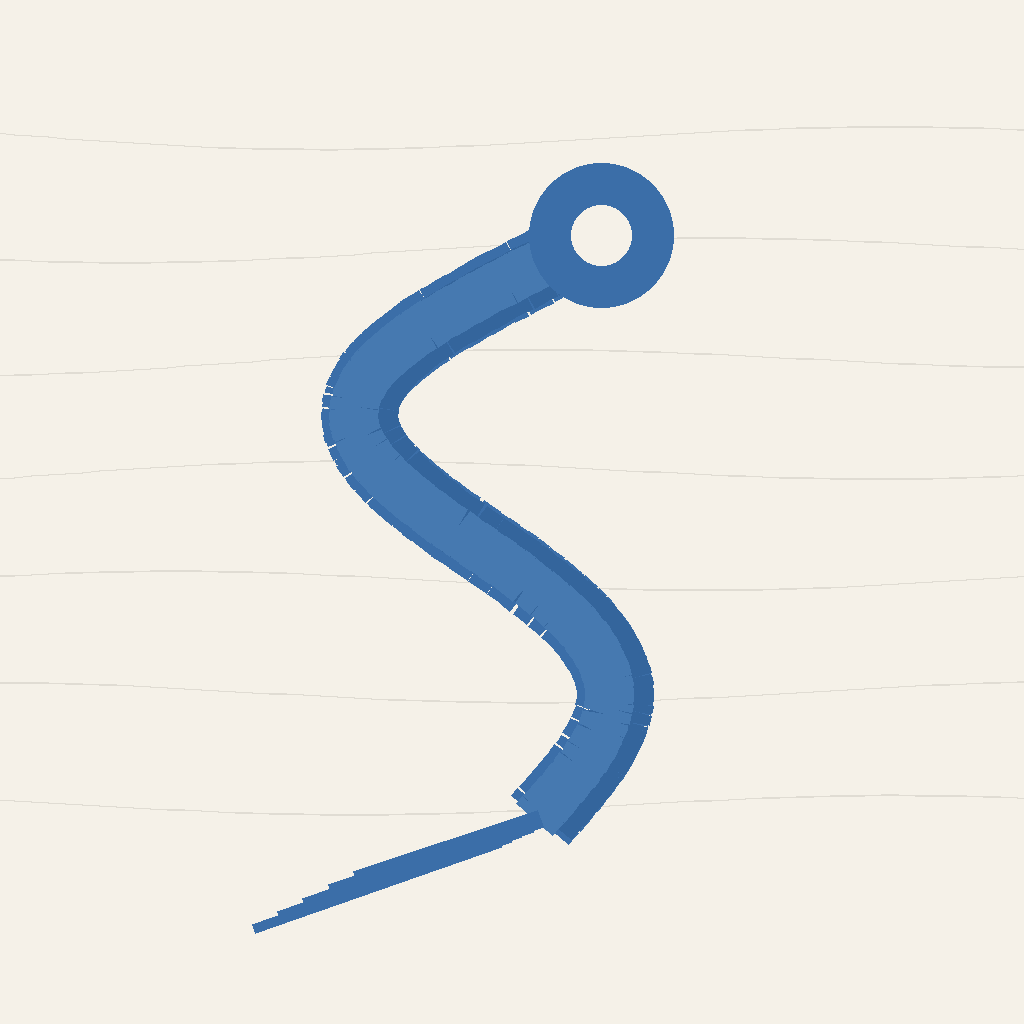
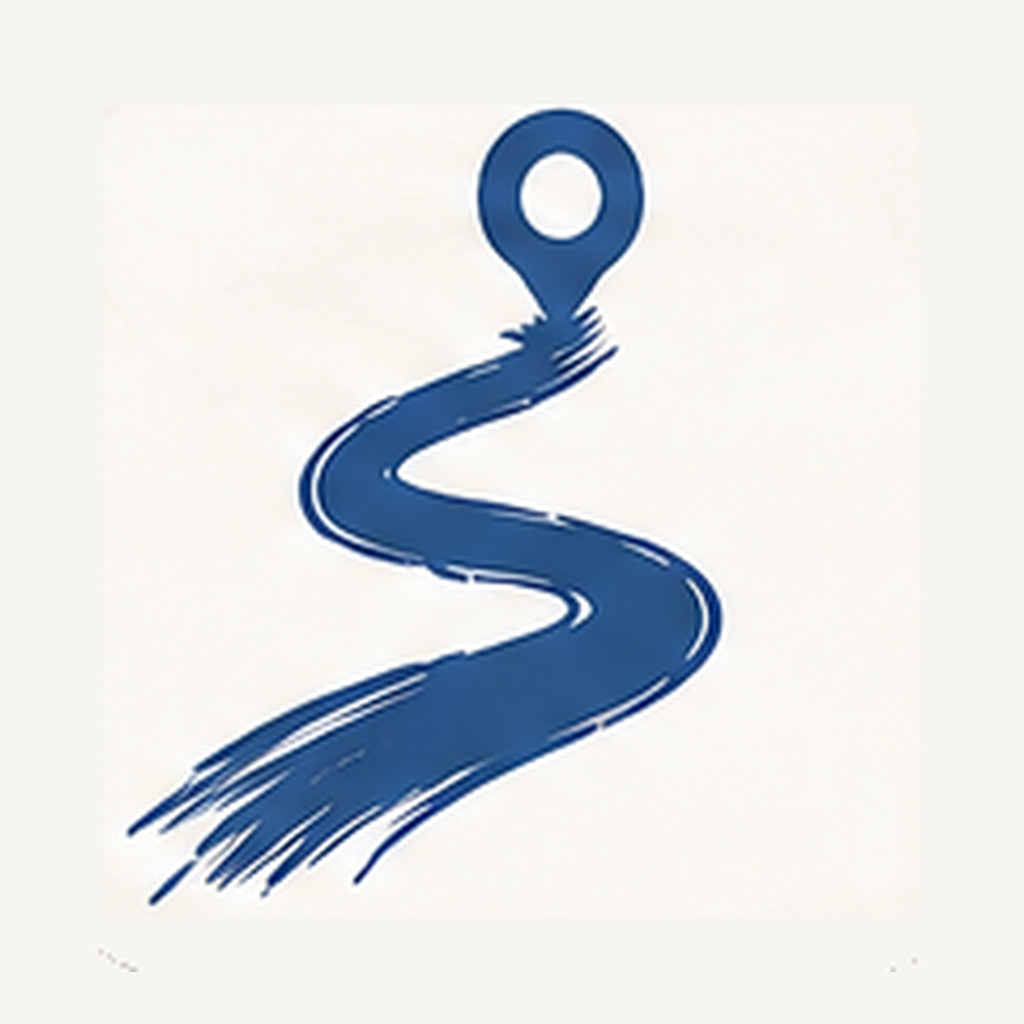
Add files via upload

Changed region(s): [[0.125, 0.0938, 0.7188, 0.9062], [0.125, 0.875, 0.1562, 0.9062]]

diff --git a/App.tsx b/App.tsx
@@ -1,6 +1,6 @@
 import { useMemo, useRef, useState } from 'react'
 import {
-  Check, Download, Eye, Gear, History, Layers, MapPin, Route as RouteIcon,
+  Check, Download, Eye, History, Layers, MapPin, Route as RouteIcon,
   Settings, SlidersHorizontal, X
 } from 'lucide-react'
 import { sampleTrack } from './sample'
@@ -84,7 +84,8 @@ export default function App(){
     return total
   },[])
   const distanceValue=units==='mi' ? distanceMeters/1609.344 : distanceMeters/1000
-  const distanceLabel=`${distanceValue.toFixed(2)} ${units}`
+  const distanceDecimals=distanceValue>=10000?0:distanceValue>=1000?1:2
+  const distanceLabel=`${new Intl.NumberFormat('en-US',{minimumFractionDigits:distanceDecimals,maximumFractionDigits:distanceDecimals}).format(distanceValue)} ${units}`
 
   const dist=(a:React.Touch,b:React.Touch)=>Math.hypot(a.clientX-b.clientX,a.clientY-b.clientY)
   const angle=(a:React.Touch,b:React.Touch)=>Math.atan2(b.clientY-a.clientY,b.clientX-a.clientX)*180/Math.PI
@@ -171,10 +172,7 @@ export default function App(){
     panelDrag.current=null
   }
 
-  const logo = <div className="header-logo">
-    <img src="./app-icon-192.png" alt=""/>
-    <span>ROUTE STUDIO</span>
-  </div>
+  const logo = <div className="header-logo"><img src="./route-studio-logo.png" alt="Route Studio"/></div>
 
   return <main className="app">
     <div className="landscape-lock"><div><strong>Route Studio is designed for portrait.</strong><span>Rotate your device to continue.</span></div></div>
@@ -256,17 +254,37 @@ export default function App(){
             <label><span>End Date</span><div className="input-wrap"><input type="date" value={endDate} onChange={e=>setEndDate(e.target.value)}/></div></label>
             <label><span>End Time</span><div className="input-wrap"><input type="time" value={endTime} onChange={e=>setEndTime(e.target.value)}/></div></label>
           </div>
+          <div className="settings-section route-units">
+            <h3>Distance Units</h3>
+            <div className="segmented-setting">
+              <button className={units==='mi'?'active':''} onClick={()=>setUnits('mi')}>Miles</button>
+              <button className={units==='km'?'active':''} onClick={()=>setUnits('km')}>Kilometers</button>
+            </div>
+          </div>
           <button className="primary-action">Fetch Location Data</button>
         </>}
 
         {panel==='style'&&<>
-          <div className="style-preview"><svg viewBox="0 0 220 72"><path d="M10 55 C55 20 95 63 132 30 S190 20 210 12" fill="none" stroke={stroke} strokeWidth={strokeWidth} strokeLinecap="round"/></svg></div>
+          <div className="style-preview"><svg viewBox="0 0 220 72"><path d="M10 55 C55 20 95 63 132 30 S190 20 210 12" fill="none" stroke={stroke} strokeWidth={strokeWidth} strokeLinecap="round" strokeDasharray={defaultRouteStyle==='dotted'?'1 14':undefined}/></svg></div>
+          <div className="settings-section">
+            <h3>Route Style</h3>
+            <div className="style-choice-grid">
+              <button className={defaultRouteStyle==='smooth'?'active':''} onClick={()=>setDefaultRouteStyle('smooth')}>Smooth</button>
+              <button className={defaultRouteStyle==='straight'?'active':''} onClick={()=>setDefaultRouteStyle('straight')}>Straight</button>
+              <button className={defaultRouteStyle==='dotted'?'active':''} onClick={()=>setDefaultRouteStyle('dotted')}>Dotted</button>
+            </div>
+          </div>
           <div className="control-group">
             <label className="slider-control"><span><b>Line Width</b><em>{strokeWidth}px</em></span><input type="range" min="1" max="18" value={strokeWidth} onChange={e=>setStrokeWidth(+e.target.value)}/></label>
             <label className="row-control"><span><b>Color</b><small>Steel Blue</small></span><input className="color-well" type="color" value={stroke} onChange={e=>setStroke(e.target.value)}/></label>
             <label className="slider-control"><span><b>Simplification</b><em>{epsilon}m</em></span><input type="range" min="0" max="50" value={epsilon} onChange={e=>setEpsilon(+e.target.value)}/></label>
-            <label className="switch-control"><span>Smooth Curves</span><input type="checkbox" checked={smooth} onChange={e=>setSmooth(e.target.checked)}/></label>
-            <label className="switch-control"><span>Start & End Markers</span><input type="checkbox" checked={markers} onChange={e=>setMarkers(e.target.checked)}/></label>
+          </div>
+          <div className="settings-section text-setting-section">
+            <h3>Markers</h3>
+            <div className="segmented-setting">
+              <button className={markers?'active':''} onClick={()=>setMarkers(true)}>On</button>
+              <button className={!markers?'active':''} onClick={()=>setMarkers(false)}>Off</button>
+            </div>
           </div>
           <label className="caption"><span>Caption</span><input type="text" placeholder="Optional" value={caption} onChange={e=>setCaption(e.target.value)}/></label>
         </>}

diff --git a/styles.css b/styles.css
@@ -81,3 +81,28 @@ button,input{font:inherit}.app{height:100dvh;overflow:hidden;position:relative;b
 .preview-meta{display:flex;justify-content:space-between;margin:10px 2px 0;color:#68747d;font-size:12px}
 .export-action{display:flex;justify-content:center;align-items:center;gap:8px}
 .export-action svg{width:18px}
+
+/* v1.8 finishing pass */
+.header-logo{height:34px;display:flex;align-items:center;justify-content:center;overflow:visible}
+.header-logo img{width:auto;height:30px;max-width:min(54vw,280px);object-fit:contain;border-radius:0}
+.distance-pill{
+  bottom:116px;
+  max-width:calc(100vw - 36px);
+  white-space:nowrap;
+  overflow:hidden;
+  text-overflow:ellipsis;
+  font-variant-numeric:tabular-nums;
+  font-size:clamp(12px,3.6vw,15px);
+  padding:9px 13px;
+}
+.distance-pill span{white-space:nowrap}
+.route-units{margin-top:16px}
+.text-setting-section{margin-top:14px}
+
+/* v1.8.1 branding correction */
+.header-logo img{
+  height:32px;
+  width:auto;
+  max-width:min(62vw,300px);
+  object-fit:contain;
+}

diff --git a/index.html b/index.html
@@ -6,7 +6,7 @@
   <meta name="theme-color" content="#eef1f2" />
   <meta name="description" content="Turn location tracks into clean printable vector artwork." />
   <link rel="manifest" href="./manifest.webmanifest" />
-  <link rel="apple-touch-icon" href="./app-icon-192.png" />
+  <link rel="apple-touch-icon" href="./app-icon-192.png?v=181" />
   <title>Route Studio</title>
 </head>
 <body>

diff --git a/README.md b/README.md
@@ -66,3 +66,19 @@ Upload every file from the unzipped archive directly to the root of the GitHub r
 - Added SVG Preview viewer before export, with transparent checkerboard background and final export button
 - Export bubble now opens SVG Preview instead of downloading immediately
 - Minimum map zoom reduced further
+
+
+## v1.8
+- Route and Style sheets now use the same text-choice/segmented-control language as Settings
+- Route sheet includes the selected distance units and stays synchronized with Settings
+- Style sheet exposes Smooth / Straight / Dotted and Markers On / Off as text choices
+- Distance pill moved upward, forced to one line, and formats very large distances with grouping separators
+- Header now uses the selected Option 1 minimalist one-line Route Studio logo as an actual image asset
+- PWA / Apple touch icon now uses the approved #3 Steel Blue icon artwork and unique filenames to reduce iOS cache collisions
+
+## v1.8.1
+- Rebuilt app icon assets from the approved Steel Blue #3 brush-route mockup
+- Removed legacy duplicate/wrong icon files
+- Rebuilt header logo from approved minimalist Option 1 one-line logo
+- Simplified manifest and Apple touch-icon references back to canonical root filenames
+- Added a cache-busting query to the Apple touch icon reference
